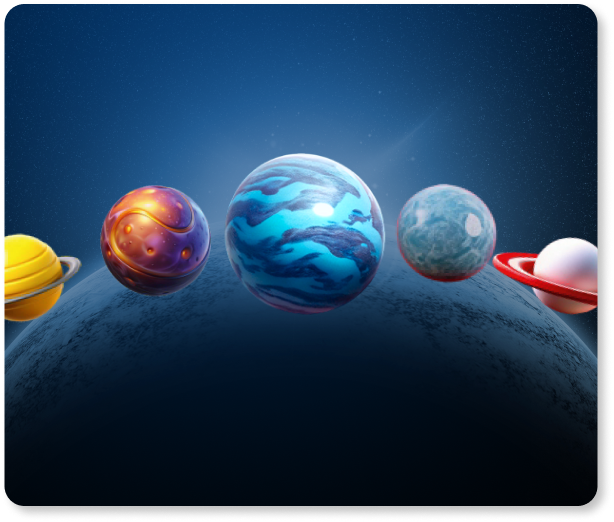
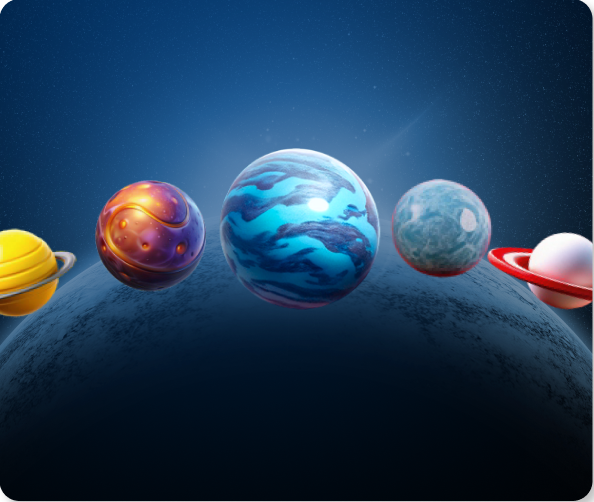
фиксы

Changed region(s): [[0.0, 0.0, 1.0, 1.0]]

diff --git a/accounts/templates/accounts/startupper_main.html b/accounts/templates/accounts/startupper_main.html
@@ -52,15 +52,19 @@
         <div style="width: 1334px; flex-direction: column; justify-content: flex-start; align-items: flex-start; gap: 55px; display: inline-flex">
             <div style="width: 497px; flex-direction: column; justify-content: flex-start; align-items: flex-start; gap: 48px; display: flex">
                 <div style="align-self: stretch; flex-direction: column; justify-content: flex-start; align-items: flex-start; gap: 15px; display: flex">
-                    <div style="align-self: stretch; color: white; font-size: 55px; font-family: 'Blippo Black', sans-serif; font-weight: 400; line-height: 18px; word-wrap: break-word">Нет идей</div>
-                    <div style="align-self: stretch; color: #FFEF2B; font-size: 55px; font-family: 'Blippo Black', sans-serif; font-weight: 400; line-height: 18px; word-wrap: break-word">ДЛЯ СТАРТАПА?</div>
+                    <div style="align-self: stretch; color: white; font-size: 55px; font-family: 'Blippo Black', sans-serif; font-weight: 400; word-wrap: break-word">Нет идей</div>
+                    <div style="align-self: stretch; color: #FFEF2B; font-size: 55px; font-family: 'Blippo Black', sans-serif; font-weight: 400; word-wrap: break-word">ДЛЯ СТАРТАПА?</div>
                 </div>
             </div>
             <div style="align-self: stretch; justify-content: flex-start; align-items: flex-start; gap: 41px; display: inline-flex">
                 <div style="width: 593px; flex-direction: column; justify-content: flex-start; align-items: flex-start; gap: 21px; display: inline-flex">
                     <img src="{% static 'accounts/images/startupper_main/main_img_2block.png' %}" style="width: 593px; height: 502px; border-radius: 20px; box-shadow: 6px 6px 10px rgba(0, 0, 0, 0.25);">
                     <div style="width: 310px; height: 32px; justify-content: center; align-items: center; gap: 24px; display: inline-flex">
-                        <img src="{% static 'accounts/images/startupper_main/campaign.svg' %}" style="width: 32px; height: 32px;" />
+                        <div style="width: 32px; height: 32px; position: relative; background: #FFEF2B; overflow: hidden; border-radius: 8px">
+                            <div data-style="Round" style="width: 21.33px; height: 21.33px; left: 5.34px; top: 5.33px; position: absolute; overflow: hidden">
+                                <div style="width: 17.78px; height: 13.52px; left: 1.78px; top: 3.91px; position: absolute; background: black"></div>
+                            </div>
+                        </div>
                         <div style="flex: 1 1 0; color: #F2F2F2; font-size: 14px; font-family: Unbounded; font-weight: 300; line-height: 18px; word-wrap: break-word">Собрали подборку стартапов для вдохновения</div>
                     </div>
                 </div>
